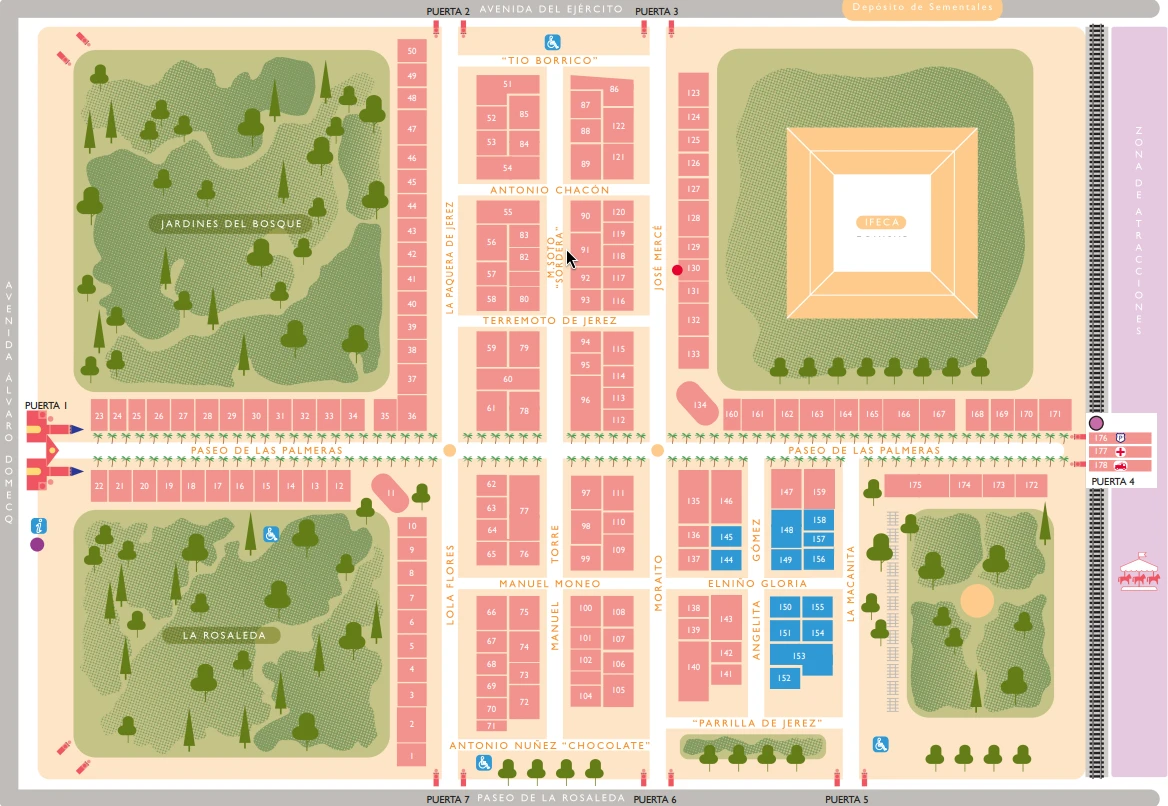
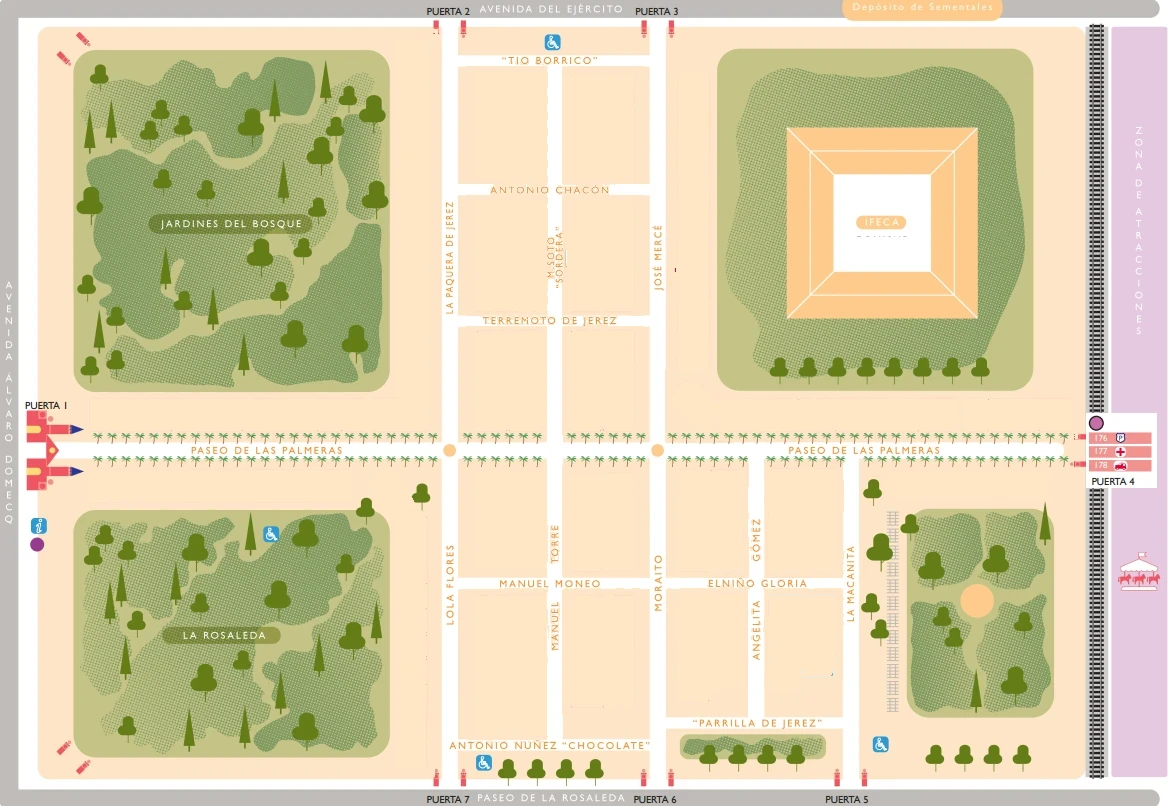
feat: update and improve web-map

Changed region(s): [[0.4007, 0.0931, 0.9247, 0.9305], [0.0616, 0.031, 0.3699, 0.9615]]

diff --git a/src/components/caseta/CasetaSearch.tsx b/src/components/caseta/CasetaSearch.tsx
@@ -1,4 +1,4 @@
-import { useId, useState } from 'react'
+import { useId, useRef, useState } from 'react'
 import { Search, X } from 'lucide-react'
 import { STATUS_META } from '@/lib/status'
 import { cn } from '@/lib/utils'
@@ -17,27 +17,42 @@ export function CasetaSearch({ query, onQueryChange, results, onSelect }: Caseta
   const [open, setOpen] = useState(false)
   const [activeIndex, setActiveIndex] = useState(0)
   const listId = useId()
+  const inputRef = useRef<HTMLInputElement>(null)
   const visible = results.slice(0, MAX_RESULTS)
+  // Results update after the query (deferred), so keep the active row in range.
+  const active = Math.min(activeIndex, Math.max(visible.length - 1, 0))
 
   const choose = (caseta: Caseta) => {
     onSelect(caseta.number)
     setOpen(false)
   }
 
+  const clear = () => {
+    onQueryChange('')
+    setActiveIndex(0)
+    inputRef.current?.focus()
+  }
+
   const handleKeyDown = (event: React.KeyboardEvent<HTMLInputElement>) => {
+    if (event.key === 'Escape') {
+      event.preventDefault()
+      // First Escape closes the list, a second one clears the query.
+      if (open && query) setOpen(false)
+      else clear()
+      return
+    }
     if (!visible.length) return
     if (event.key === 'ArrowDown') {
       event.preventDefault()
       setOpen(true)
-      setActiveIndex((i) => (i + 1) % visible.length)
+      setActiveIndex((active + 1) % visible.length)
     } else if (event.key === 'ArrowUp') {
       event.preventDefault()
-      setActiveIndex((i) => (i - 1 + visible.length) % visible.length)
-    } else if (event.key === 'Enter') {
+      setOpen(true)
+      setActiveIndex((active - 1 + visible.length) % visible.length)
+    } else if (event.key === 'Enter' && open) {
       event.preventDefault()
-      choose(visible[activeIndex])
-    } else if (event.key === 'Escape') {
-      setOpen(false)
+      choose(visible[active])
     }
   }
 
@@ -47,11 +62,12 @@ export function CasetaSearch({ query, onQueryChange, results, onSelect }: Caseta
     <div className="relative">
       <Search className="pointer-events-none absolute top-1/2 left-3.5 size-4 -translate-y-1/2 text-tinta-3" aria-hidden />
       <input
+        ref={inputRef}
         type="search"
         role="combobox"
-        aria-expanded={showList}
-        aria-controls={listId}
-        aria-activedescendant={showList && visible[activeIndex] ? `${listId}-${visible[activeIndex].number}` : undefined}
+        aria-expanded={showList && visible.length > 0}
+        aria-controls={showList && visible.length > 0 ? listId : undefined}
+        aria-activedescendant={showList && visible[active] ? `${listId}-${visible[active].number}` : undefined}
         aria-label="Buscar caseta por nombre, número o CIF"
         placeholder="Buscar por nombre, número o CIF…"
         value={query}
@@ -68,32 +84,40 @@ export function CasetaSearch({ query, onQueryChange, results, onSelect }: Caseta
       {query && (
         <button
           type="button"
-          onClick={() => onQueryChange('')}
+          onClick={clear}
           className="absolute top-1/2 right-1 grid size-9 -translate-y-1/2 place-items-center rounded-control text-tinta-3 transition-colors hover:bg-cal-hondo hover:text-tinta"
           aria-label="Limpiar búsqueda"
         >
           <X className="size-4" />
         </button>
       )}
-      {showList && (
+      {showList && visible.length === 0 && (
+        <p
+          role="status"
+          className="rise-in absolute z-20 mt-1.5 w-full rounded-panel bg-white px-3 py-6 text-center text-sm text-tinta-3 shadow-float"
+        >
+          Ninguna caseta coincide. Prueba con el número o el CIF.
+        </p>
+      )}
+      {showList && visible.length > 0 && (
         <ul
           id={listId}
           role="listbox"
+          aria-label="Casetas encontradas"
           className="rise-in absolute z-20 mt-1.5 max-h-80 w-full origin-top overflow-auto rounded-panel bg-white p-1.5 shadow-float"
         >
-          {visible.length === 0 && <li className="px-3 py-6 text-center text-sm text-tinta-3">Ninguna caseta coincide. Prueba con el número o el CIF.</li>}
           {visible.map((caseta, index) => (
             <li
               key={caseta.number}
               id={`${listId}-${caseta.number}`}
               role="option"
-              aria-selected={index === activeIndex}
+              aria-selected={index === active}
               onMouseDown={(e) => e.preventDefault()}
               onClick={() => choose(caseta)}
               onMouseEnter={() => setActiveIndex(index)}
               className={cn(
                 'flex cursor-pointer items-center gap-3 rounded-control px-2.5 py-2 text-sm',
-                index === activeIndex && 'bg-anil-50',
+                index === active && 'bg-anil-50',
               )}
             >
               <span className="font-cartel tabular w-8 shrink-0 text-right text-lg leading-none font-extrabold text-anil-700">
@@ -111,7 +135,7 @@ export function CasetaSearch({ query, onQueryChange, results, onSelect }: Caseta
             </li>
           ))}
           {results.length > MAX_RESULTS && (
-            <li className="px-3 pt-2 pb-1 text-[13px] text-tinta-3">
+            <li role="presentation" className="px-3 pt-2 pb-1 text-[13px] text-tinta-3">
               +{results.length - MAX_RESULTS} más resaltadas en el mapa
             </li>
           )}

diff --git a/src/services/casetaService.ts b/src/services/casetaService.ts
@@ -32,15 +32,36 @@ function writeSubmissions(casetas: Caseta[]) {
   }
 }
 
-export function matchesQuery(caseta: Caseta, query: string) {
+/**
+ * Relevance of a caseta for a query, or 0 when it doesn't match.
+ * Numbers match by prefix ("1" → 1, 10…19, 100…), names by every word
+ * ("pena real" → "Peña El Real"), CIFs by substring.
+ */
+function scoreMatch(caseta: Caseta, query: string) {
   const q = normalize(query)
-  if (!q) return false
-  if (/^\d+$/.test(q)) return String(caseta.number).startsWith(q)
+  if (!q) return 0
+  if (/^\d+$/.test(q)) {
+    const number = String(Number(q)) // "007" → "7"
+    const own = String(caseta.number)
+    if (own === number) return 3
+    return own.startsWith(number) ? 1 : 0
+  }
   const cifQuery = normalizeCif(query)
-  return (
-    (caseta.name !== undefined && normalize(caseta.name).includes(q)) ||
-    (caseta.cif !== undefined && cifQuery.length >= 2 && caseta.cif.includes(cifQuery))
-  )
+  if (caseta.cif && cifQuery.length >= 2 && caseta.cif.includes(cifQuery)) return caseta.cif === cifQuery ? 3 : 2
+  if (!caseta.name) return 0
+  const name = normalize(caseta.name)
+  const words = q.split(/\s+/)
+  if (!words.every((w) => name.includes(w))) return 0
+  return name.startsWith(q) || name.split(/\s+/).some((w) => w.startsWith(words[0])) ? 2 : 1
+}
+
+/** Matching casetas, best matches first, then by number. */
+export function searchCasetas(casetas: Caseta[], query: string) {
+  return casetas
+    .map((caseta) => ({ caseta, score: scoreMatch(caseta, query) }))
+    .filter((r) => r.score > 0)
+    .sort((a, b) => b.score - a.score || a.caseta.number - b.caseta.number)
+    .map((r) => r.caseta)
 }
 
 class MockCasetaRepository implements CasetaRepository {
@@ -63,7 +84,7 @@ class MockCasetaRepository implements CasetaRepository {
   }
 
   async search(query: string) {
-    return this.snapshot().filter((c) => matchesQuery(c, query))
+    return searchCasetas(this.snapshot(), query)
   }
 
   async submit(submission: CasetaSubmission): Promise<SubmissionResult> {

diff --git a/src/pages/GestionDocumentalPage.tsx b/src/pages/GestionDocumentalPage.tsx
@@ -7,7 +7,7 @@ import { FeriaMap } from '@/components/map/FeriaMap'
 import { StatusBar } from '@/components/map/StatusBar'
 import { Button } from '@/components/ui/button'
 import { STATUS_META, STATUS_ORDER } from '@/lib/status'
-import { casetaRepository, matchesQuery } from '@/services/casetaService'
+import { casetaRepository, searchCasetas } from '@/services/casetaService'
 import type { Caseta, DocStatus } from '@/types/caseta'
 
 export function GestionDocumentalPage() {
@@ -35,19 +35,21 @@ export function GestionDocumentalPage() {
     return initial
   }, [casetas])
 
-  const searchResults = useMemo(
-    () => (casetas ?? []).filter((c) => matchesQuery(c, deferredQuery)),
-    [casetas, deferredQuery],
+  const hasQuery = deferredQuery.trim().length > 0
+
+  // Casetas passing the status chips; the search narrows this same pool, so the
+  // dropdown and the highlighted map always agree.
+  const statusPool = useMemo(
+    () => (casetas ?? []).filter((c) => statusFilter.size === 0 || statusFilter.has(c.status)),
+    [casetas, statusFilter],
   )
 
+  const searchResults = useMemo(() => searchCasetas(statusPool, deferredQuery), [statusPool, deferredQuery])
+
   const highlighted = useMemo(() => {
-    const hasQuery = deferredQuery.trim().length > 0
     if (!hasQuery && statusFilter.size === 0) return undefined
-    const pool = hasQuery ? searchResults : (casetas ?? [])
-    return new Set(
-      pool.filter((c) => statusFilter.size === 0 || statusFilter.has(c.status)).map((c) => c.number),
-    )
-  }, [casetas, deferredQuery, searchResults, statusFilter])
+    return new Set((hasQuery ? searchResults : statusPool).map((c) => c.number))
+  }, [hasQuery, searchResults, statusPool, statusFilter])
 
   const updateSelection = (number: number | undefined) =>
     setParams(

diff --git a/src/data/mapLayout.ts b/src/data/mapLayout.ts
@@ -166,7 +166,7 @@ const RECTS: Rect[] = [
   [151, 770, 620, 33, 23],
   [154, 803, 620, 32, 23],
   [153, 770, 644, 63, 24],
-  [152, 770, 668, 25, 22],
+  [152, 770, 668, 30, 22],
 ]
 
 const OVALS: CasetaShape[] = [
